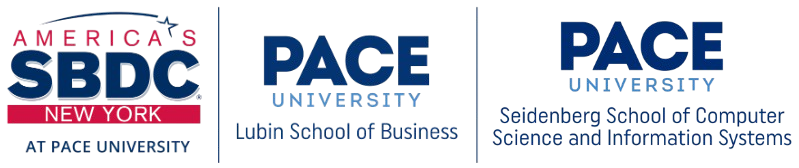
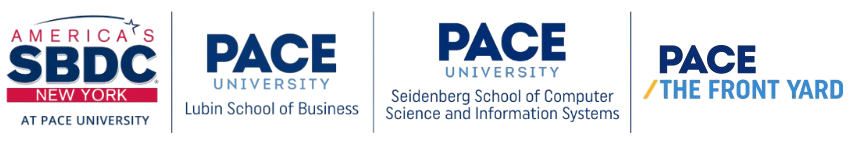
Added front yard to collaboration list and made other UI changes

diff --git a/src/App.js b/src/App.js
@@ -166,7 +166,7 @@ function App() {
                         <span className="landing-page-contents-main-subtext">
                             ...to help creators promote, spread, and share their products. 
                         </span>
-                        <span className="landing-page-contents-main-subtext">This happens through ‘product pages’ and personalized user feeds that put their work in the eyes and hands of users, customers, and other consumers that will best resonate with them.</span>
+                        <span className="landing-page-contents-main-subtext">This happens through <span style={{ color: '#ffa736' }}>product pages</span> and <span style={{ color: '#ffa736' }}>personalized user feeds</span> that put their work in the eyes and hands of users, customers, and other consumers that will best resonate with them.</span>
                     </div>
                     <div className="landing-page-contents-main-section">
                         <span className="landing-page-contents-main-heading">Follow Our Progress!</span>
@@ -227,8 +227,17 @@ function App() {
                     </div>
                     <div className="landing-page-contents-main-section">
                         <div className="landing-page-contents-main-footer">
-                            <span className="landing-page-contents-main-footer-text">For professional/business inquiries, contact:</span>
-                            <a href="mailto:inquiries@averentapp.com" className="landing-page-contents-main-footer-email landing-page-contents-main-link">inquiries@averentapp.com</a>
+                            <div className="landing-page-contents-main-footer-item">
+                                <span className="landing-page-contents-main-footer-text">For professional/business inquiries, contact:</span>
+                                <a href="mailto:inquiries@averentapp.com" className="landing-page-contents-main-footer-email landing-page-contents-main-link">inquiries@averentapp.com</a>
+                            </div>
+                            <div className="landing-page-contents-main-footer-item">
+                                <span className="landing-page-contents-main-footer-text">Or reach out to us on:</span>
+                                <a href="https://www.linkedin.com/company/averent" target="_blank" className="landing-page-contents-main-footer-email landing-page-contents-main-link">LinkedIn</a>
+                                <span>&nbsp;|&nbsp;</span>
+                                <a href="https://pace.joinhandshake.com/e/1004501" target="_blank" className="landing-page-contents-main-footer-email landing-page-contents-main-link">Handshake</a>
+                                <span>&nbsp;(for Pace students and alumni)</span>
+                            </div>
                         </div>
                     </div>
                 </div>
@@ -237,7 +246,7 @@ function App() {
                         In collaboration with:
                     </span>
                     <div className="landing-page-collaborations-image">
-                        <img draggable={false} width="250" src="./public/images/collaborations.png" />
+                        <img draggable={false} width="400" src="./public/images/collaborations.png" />
                     </div>
                 </div>
             </div>

diff --git a/src/style.scss b/src/style.scss
@@ -2,6 +2,21 @@
 @import url('https://fonts.googleapis.com/css2?family=Antonio:wght@100..700&family=Oxygen:wght@300;400;700&display=swap');
 @import url('https://fonts.googleapis.com/css2?family=Antonio:wght@100..700&family=Comfortaa:wght@300..700&family=Oxygen:wght@300;400;700&display=swap');
 
+@keyframes rotateLogo {
+    0% {
+        transform: rotate(0deg);
+    }
+    10% {
+        transform: rotate(-30deg);
+    }
+    80% {
+        transform: rotate(390deg); /* Slightly more than 360 degrees */
+    }
+    100% {
+        transform: rotate(360deg); /* Correct back to 360 degrees */
+    }
+}
+
 html, body, #averent-landing {
     margin: 0;
     padding: 0;
@@ -130,11 +145,27 @@ html, body, #averent-landing {
 
 .landing-page-contents-main-horizontal-list-item {
     background-color: white;
-    background: linear-gradient(-45deg, white 80%, #ffa736 20%);
+    background: linear-gradient(-45deg, white 82%, #ffa736 18%);
     border-radius: 5px;
     padding: 0.5rem 1rem;
     margin: 0 0.5rem;
     box-shadow: 0 4px 6px rgba(0, 0, 0, 0.8);
+    transition: transform 0.3s ease-in-out;
+    cursor: pointer;
+}
+
+.landing-page-contents-main-horizontal-list-item:hover {
+    transform: scale(1.01);
+}
+
+.landing-page-contents-main-horizontal-list-item:hover .landing-page-contents-main-socials-logo {
+    animation: rotateLogo 1.5s linear;
+}
+
+.landing-page-contents-main-horizontal-list-item:hover .landing-page-contents-main-socials-link {
+    color: #ffa736;
+    font-size: 1.5rem;
+    text-decoration: underline;
 }
 
 .landing-page-contents-main-subheading {
@@ -204,20 +235,24 @@ html, body, #averent-landing {
     font-size: 1.3rem;
     font-family: 'Russo One', sans-serif; 
     text-decoration: none;
-}
-
-.landing-page-contents-main-socials-link:hover {
-    text-decoration: underline;
-    color: #ffa736;
+    transition: color 0.3s ease-in-out, font-size 0.3s ease-in-out, text-decoration 0.3s ease-in-out;
 }
 
 .landing-page-contents-main-socials-image {
     width: 200px;
 }
 
-.landing-page-contents-main-footer {
+.landing-page-contents-main-footer, .landing-page-contents-main-footer-item {
     display: flex;
     align-items: center;
+}
+
+.landing-page-contents-main-footer {
+    flex-direction: column;
+}
+
+.landing-page-contents-main-footer-item:first-child {
+    margin-bottom: 0.5rem;
 }
 
 .landing-page-contents-main-footer-text {
